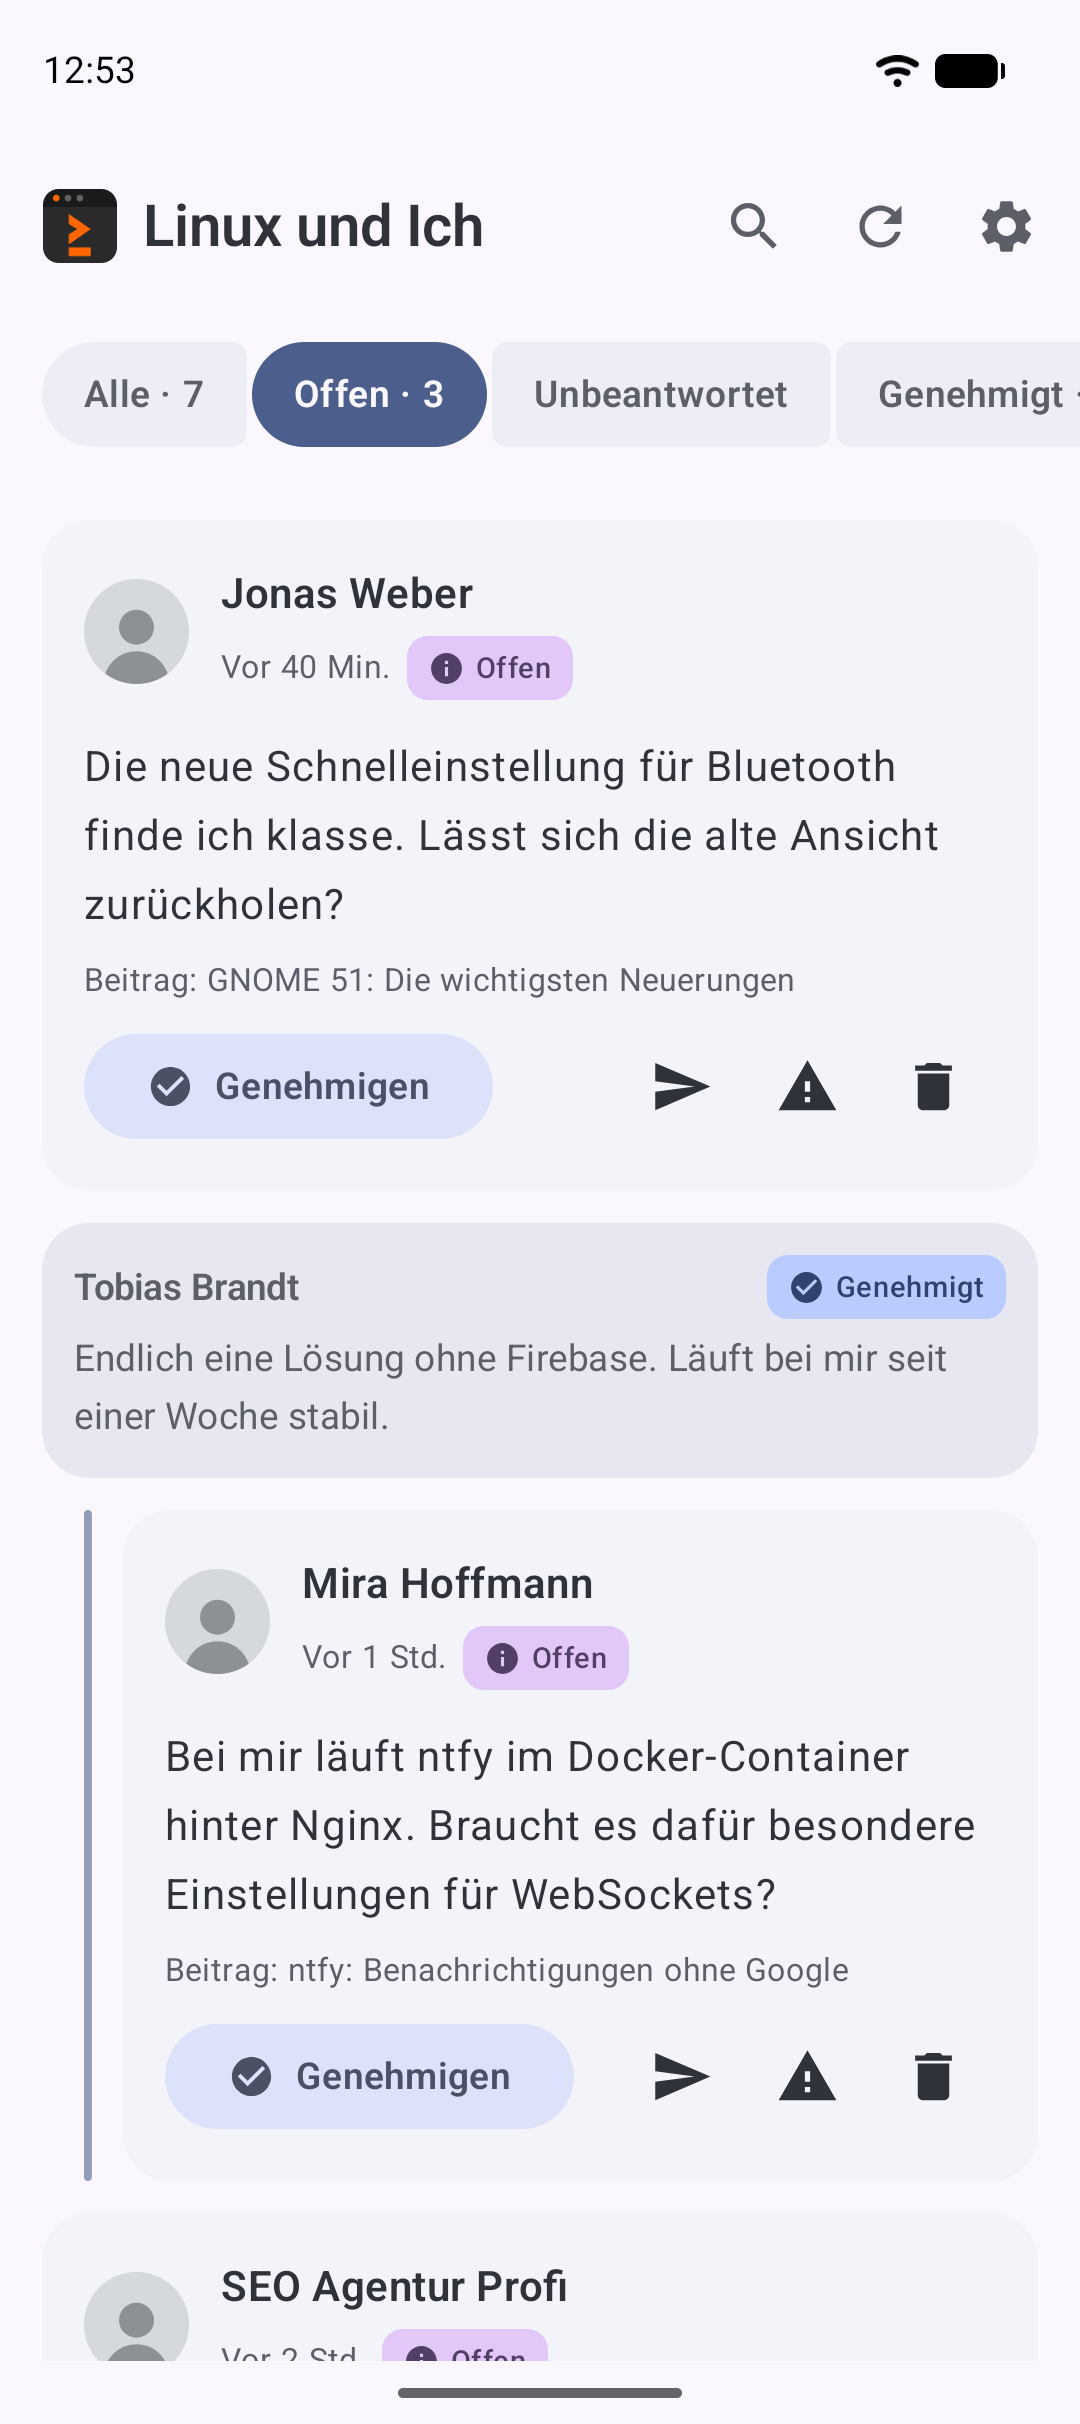
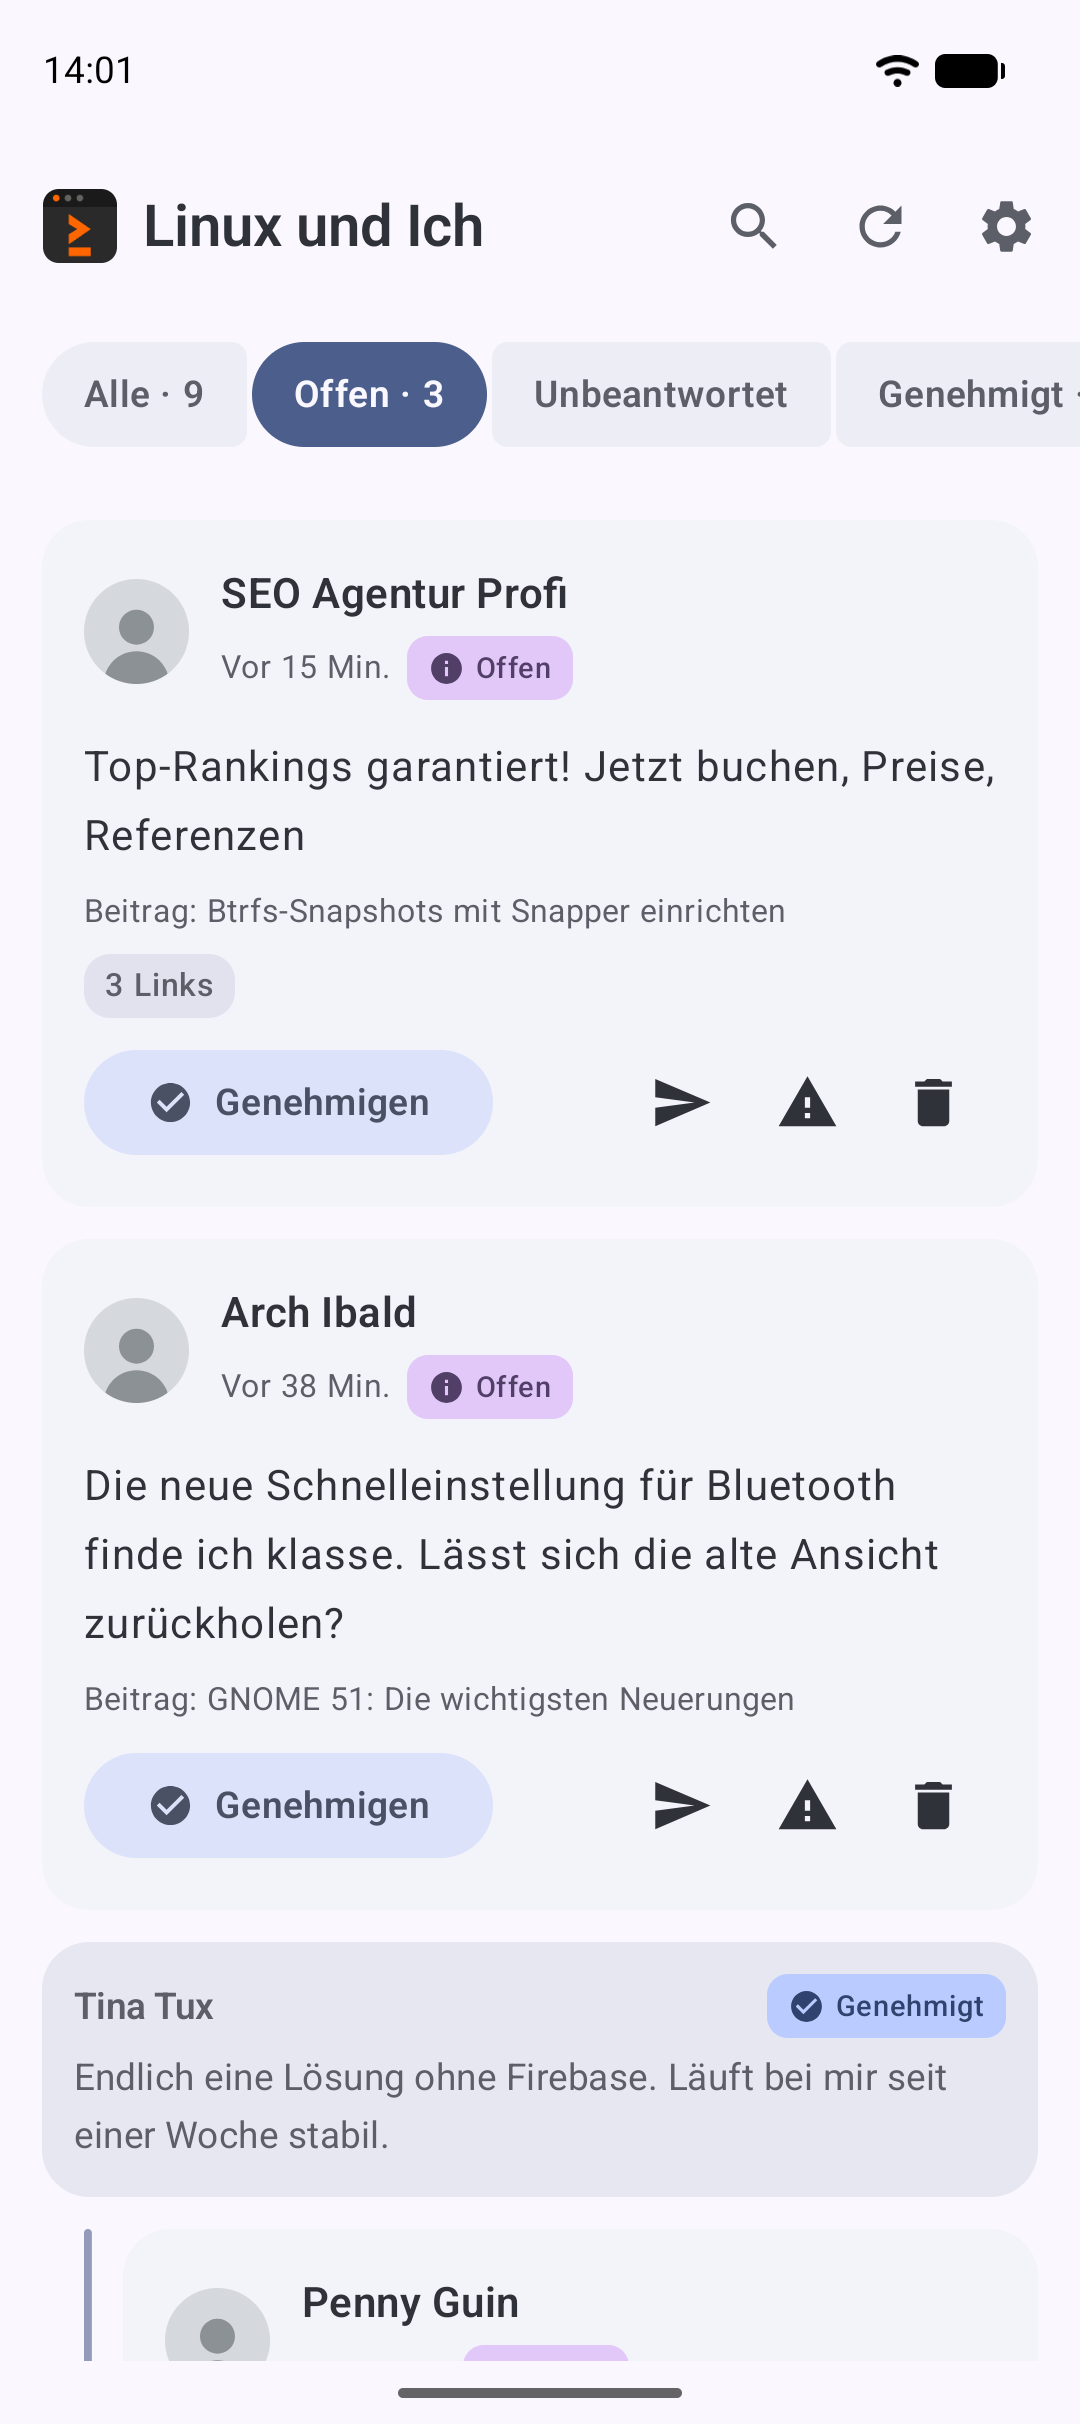
Screenshots mit tuxigen Namen und Galerie im README
Die neun Bilder sind neu aufgenommen, mit denselben erfundenen Lesern wie im
Video. Das README zeigt sie oben als Galerie in zwei Reihen, darunter ein
Vorschaubild, das zum Video fuehrt. GitHub bettet eine mp4 aus dem Repository
nicht ein, ein Link mit Vorschau ist der uebliche Weg. Der
Einrichtungsbildschirm steht beim Abschnitt zur Einrichtung.

Dabei aufgefallen und ins Backlog: Im Web geloeschte Kommentare bleiben im
Zwischenspeicher liegen, wenn sie aelter sind als die geladene Seite. Nach
dem Neuaufsetzen des Testblogs standen sie unter "Unbeantwortet", und der
Hinweis "Text kommt mehrfach vor" zaehlte sie mit. Fuer die Aufnahmen ist
der Speicher der Debug-App geleert worden.

diff --git a/README.md b/README.md
@@ -9,6 +9,33 @@ genehmigen, ablehnen, beantworten – schnell, vom Telefon aus, ohne den Umweg
 
 ---
 
+## So sieht es aus
+
+<p>
+<img src="docs/screenshots/02-posteingang.png" width="200" alt="Posteingang mit offenen Kommentaren">
+<img src="docs/screenshots/03-benachrichtigung.png" width="200" alt="Benachrichtigung mit Knöpfen zum Freigeben, Antworten und für Spam">
+<img src="docs/screenshots/04-direktantwort.png" width="200" alt="Antwort direkt aus der Benachrichtigung">
+<img src="docs/screenshots/05-detail.png" width="200" alt="Detailansicht mit Autorenkontext und Textbausteinen">
+</p>
+<p>
+<img src="docs/screenshots/06-unbeantwortet.png" width="200" alt="Filter Unbeantwortet">
+<img src="docs/screenshots/08-gespraechsfaden.png" width="200" alt="Gesprächsfaden mit Antwort aus dem Team">
+<img src="docs/screenshots/07-sofortmeldung.png" width="200" alt="Einstellungen eines Blogs mit Sofortmeldung über ntfy">
+<img src="docs/screenshots/09-dunkel.png" width="200" alt="Posteingang im dunklen Modus">
+</p>
+
+**Video (44 s):** Spam aussortieren, ein neuer Kommentar kommt per Push,
+lesen, freigeben, antworten – und auf die Rückfrage direkt aus der
+Benachrichtigung antworten.
+
+<a href="docs/screenshots/demo-moderation.mp4"><img src="docs/screenshots/demo-vorschau.png" width="200" alt="Demo-Video der Moderation abspielen"></a>
+
+Die Aufnahmen zeigen den Blog linuxundich.de mit erfundenen Kommentaren aus
+einer lokalen Testumgebung; wie sie entstehen, steht in
+[`docker/README.md`](docker/README.md#screenshots-und-demo-video).
+
+---
+
 ## Für wen ist das gedacht?
 
 Für Leute, die einen oder mehrere eigene WordPress-Blogs betreiben, dort
@@ -176,6 +203,8 @@ Passwort notieren. Es wird nur einmal angezeigt.
 Das Kontokennwort wird dafür nicht gebraucht und gehört auch nicht in die App.
 
 ### 4. App einrichten
+
+<img src="docs/screenshots/01-einrichtung.png" width="200" alt="Blog hinzufügen" align="right">
 
 1. App starten.
 2. Blog-Adresse eingeben, etwa `https://example.com`. Die App prüft, ob dort

diff --git a/BACKLOG.md b/BACKLOG.md
@@ -182,6 +182,15 @@ Instanz erzeugt. Die Oberfläche ist nachgezogen.
       die App fremde Entscheidungen. Denkbar ist, den Status beim Absenden
       erneut zu lesen und bei Abweichung nachzufragen statt zu überschreiben.
       Erst mit dieser Strategie ist das Merkmal sinnvoll.*
+- [ ] **P2** Im Web gelöschte Kommentare verschwinden nicht aus dem
+      Zwischenspeicher
+      *Gefunden bei den README-Aufnahmen (2026-10-02): Nach einem Neuaufsetzen
+      des Testblogs standen gelöschte Kommentare weiter unter „Unbeantwortet“,
+      und der Hinweis „Text kommt mehrfach vor“ zählte sie mit. Ein Abruf
+      räumt nur innerhalb des Zeitfensters der geladenen Seite auf; was älter
+      ist, bleibt liegen. Denkbar: beim Laden von „Unbeantwortet“ und beim
+      Abgleich der Benachrichtigungen die IDs per `include` gegenprüfen und
+      Fehlendes löschen.*
 - [ ] **P3** Cache-Obergrenze und Aufräumen alter Kommentare
 
 ---
